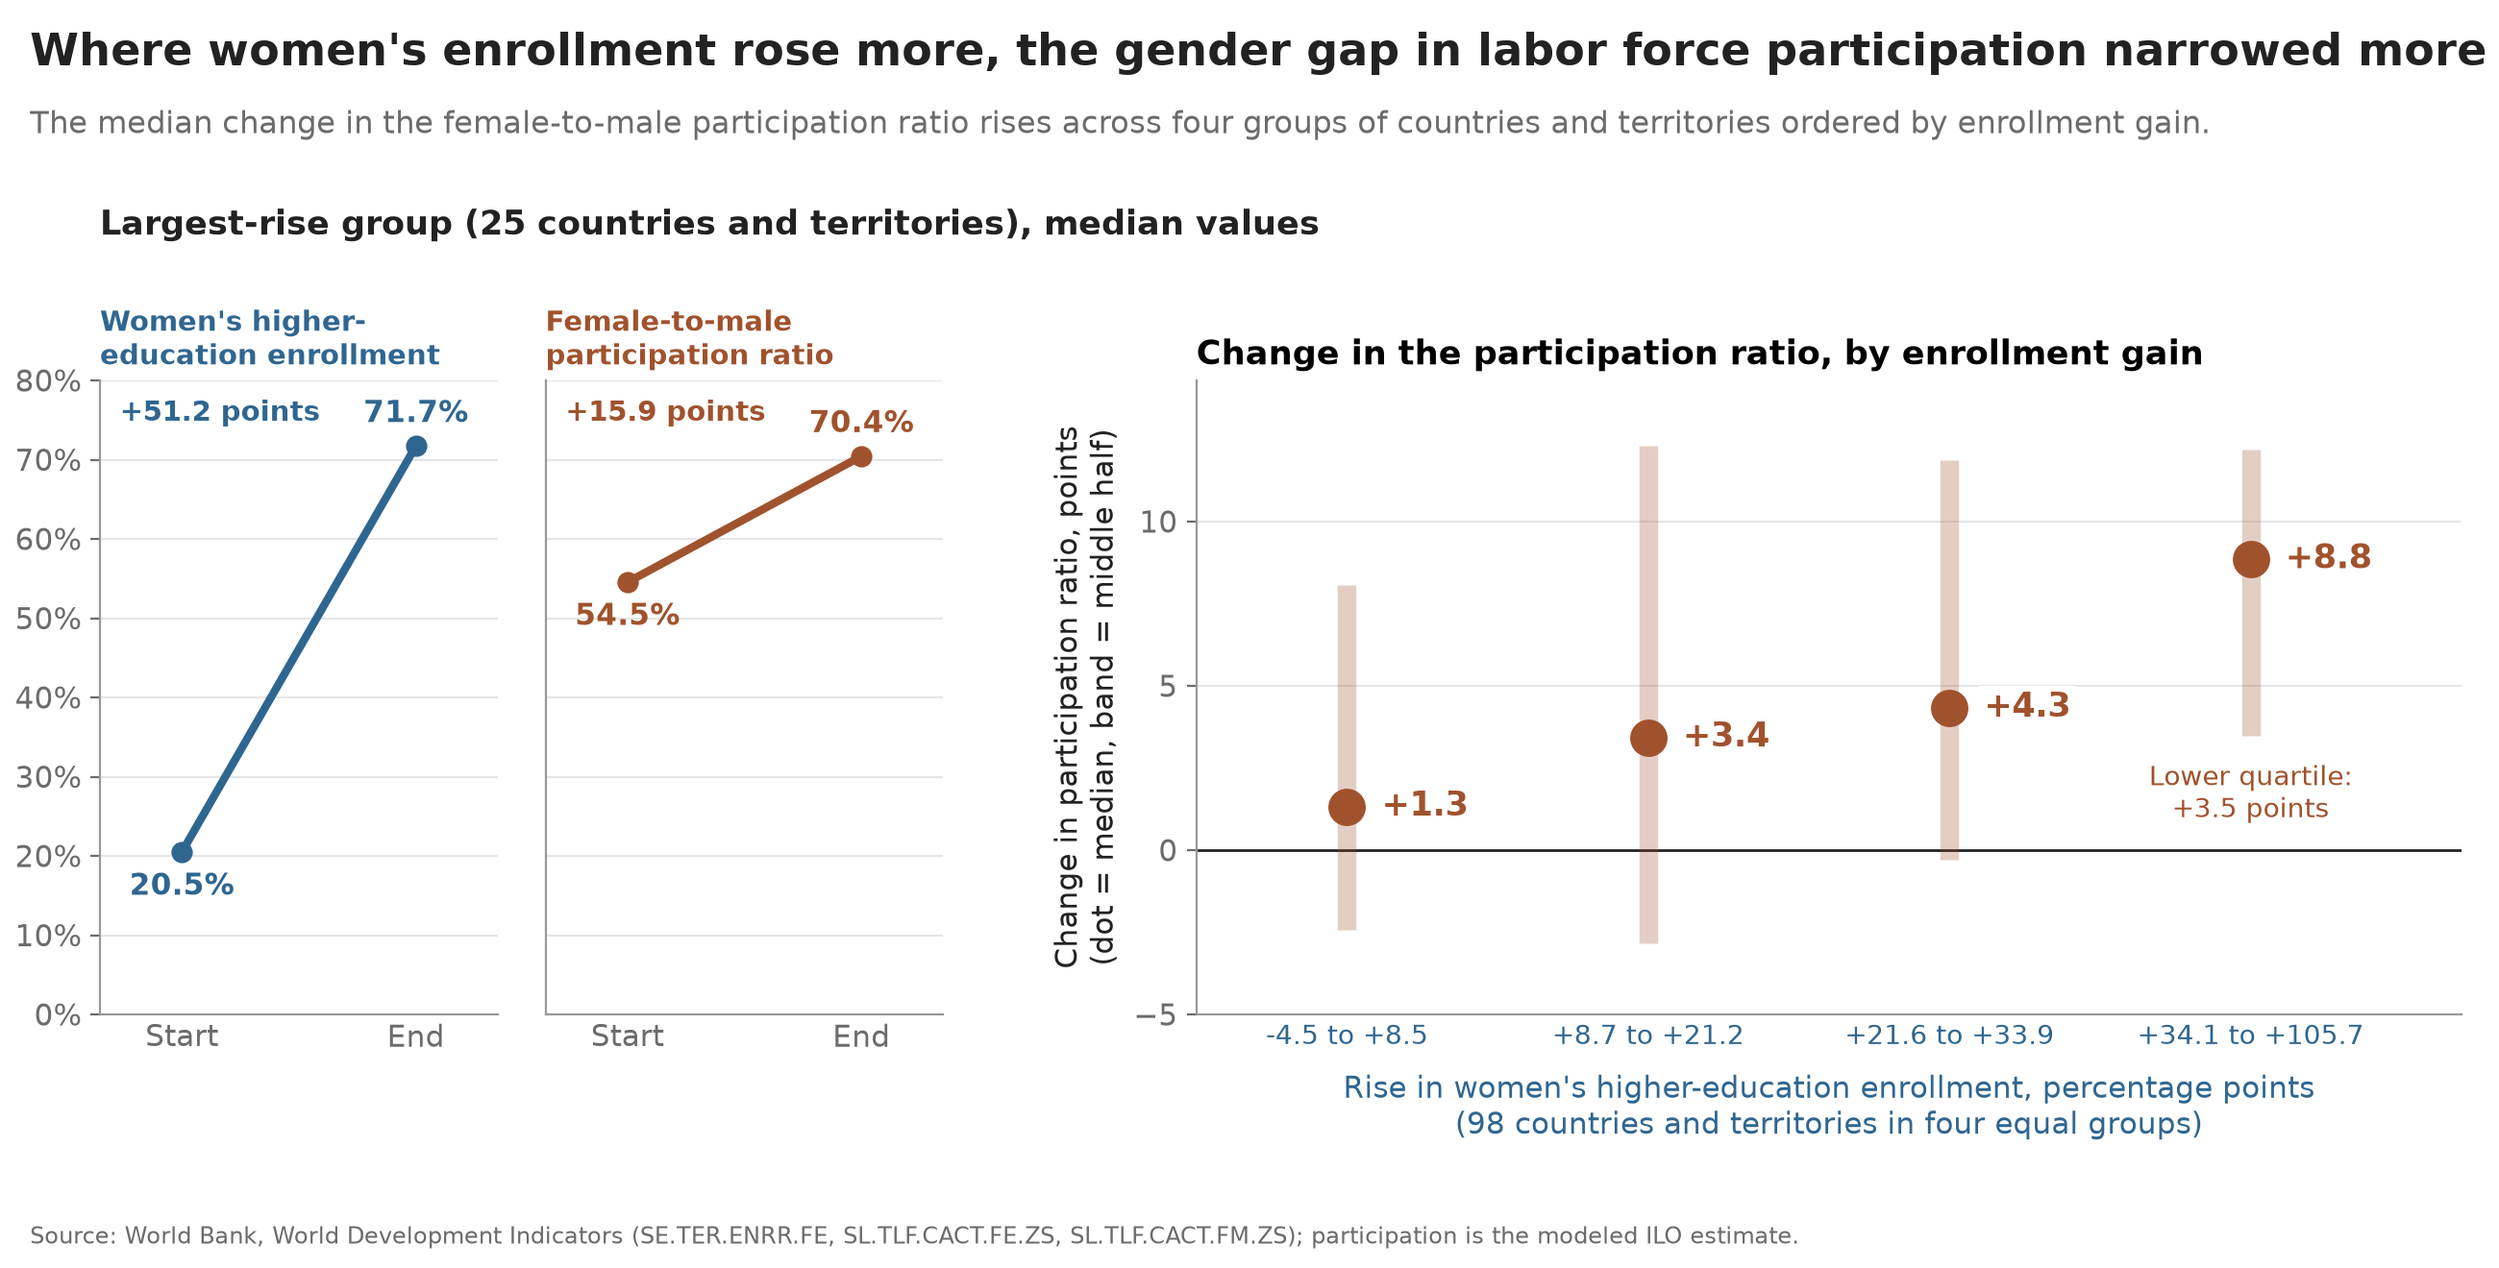
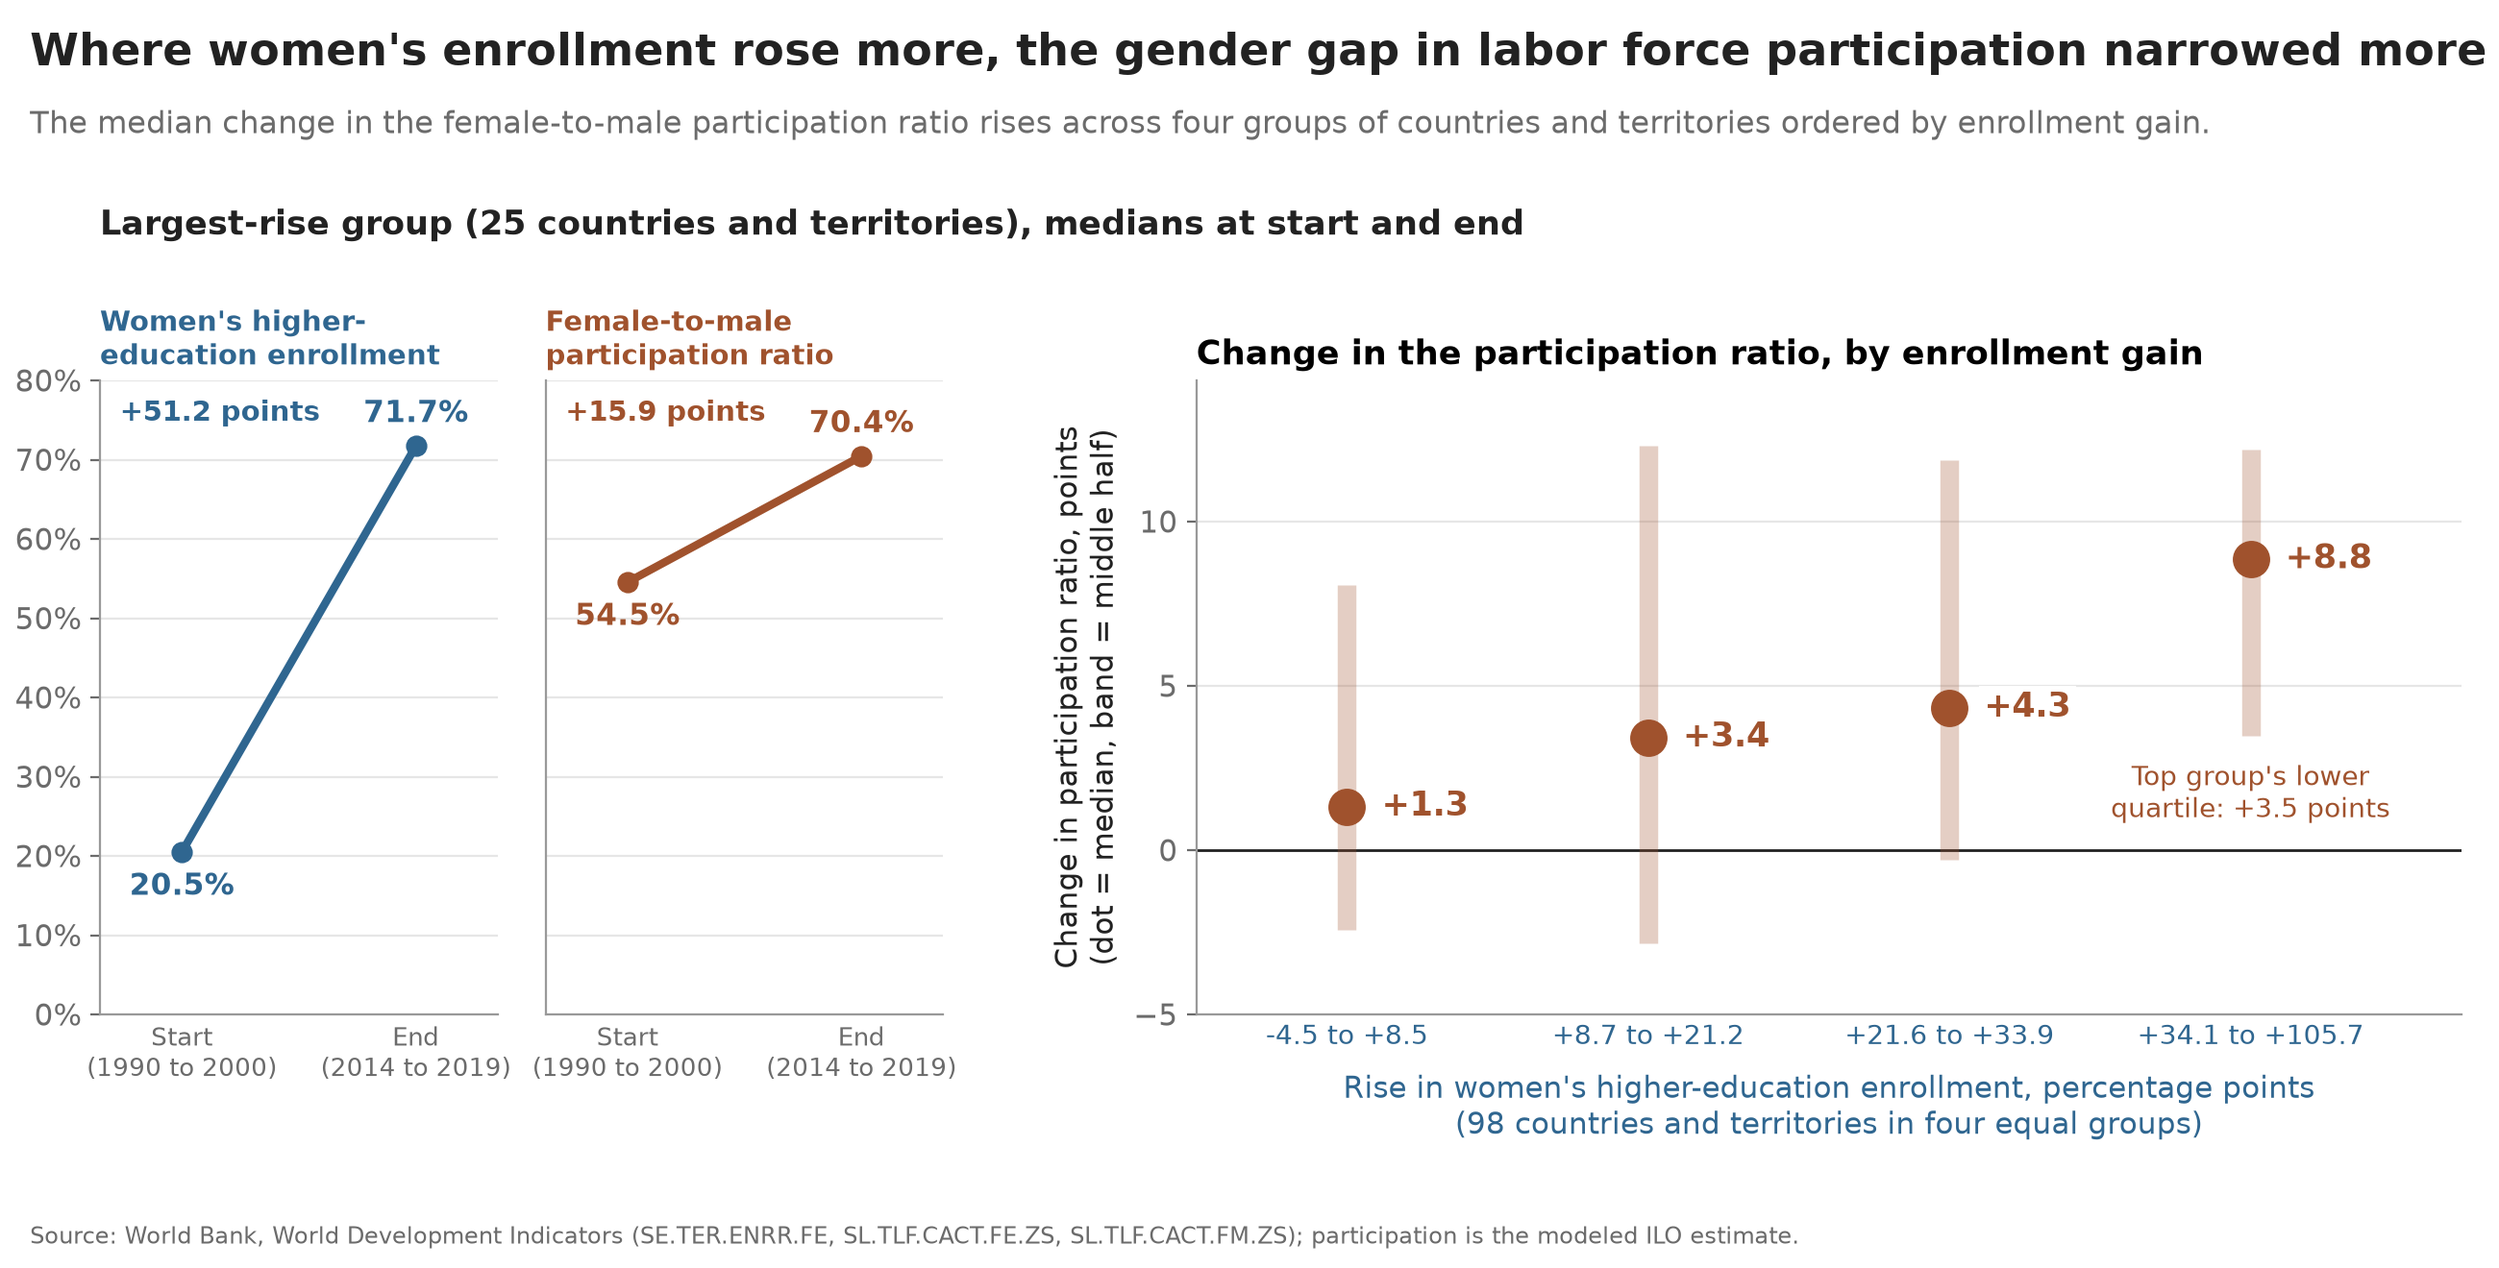
Project 2: red-team round 2 fixes (score consistency, chart year labels, wording corrections)

diff --git a/projects/project2-women-work/index.html b/projects/project2-women-work/index.html
@@ -198,7 +198,7 @@
                 We fetched the years 1990 to 2019 from the
                 <a href="https://datahelpdesk.worldbank.org/knowledgebase/articles/889392">World Bank Indicators API</a>
                 on 21 October 2026 (Pacific time) and cached them in a data/ folder, which is not part of the published
-                site. Running <a href="make_charts.py">make_charts.py</a> fetches the same indicators again. The
+                site. Running <a href="make_charts.py">make_charts.py</a> reuses that cache, and fetches the indicators again only when it is missing. The
                 indicators are female gross tertiary enrollment (SE.TER.ENRR.FE), female labor force participation,
                 ages 15 and over (SL.TLF.CACT.FE.ZS), and the ratio of the female to the male labor force
                 participation rate (SL.TLF.CACT.FM.ZS).
@@ -245,9 +245,9 @@
                         two measures have different denominators: gross tertiary enrollment is measured against the
                         university-age cohort (and can exceed 100%), whilst participation is measured against all women
                         aged 15 and over. Two different measures on one scale invite a comparison of levels, and the gap
-                        then looks like one series failing to follow the other. The separate panels in the opposing chart
-                        (+1.5) are the earnest counterpart of this choice, so the two scores are consistent. Alternative
-                        considered: two separate panels, which would be more honest but far less persuasive.
+                        then looks like one series failing to follow the other. The opposing chart draws its two measures in
+                        separate, separately titled panels and scores +1.5. Alternative considered: two separate panels,
+                        which we rejected because the gap between the two lines reads far less directly.
                     </li>
                     <li>
                         <strong>Women's own participation rate instead of the female-to-male ratio (score: -1.5).</strong> We measure work with the female participation rate and never show the ratio of the female to the
@@ -294,7 +294,7 @@
                             src="against_education_did_pay.png"
                             width="2600"
                             height="1320"
-                            alt="Left: two small slope panels on one 0 to 80% scale for the 25 countries and territories with the largest rise in women's enrollment; median enrollment rises from 20.5% to 71.7% and the median female-to-male participation ratio from 54.5% to 70.4%. Right: dot plot of 98 countries and territories split into four equal groups by the rise in women's enrollment (-4.5 to +8.5, +8.7 to +21.2, +21.6 to +33.9 and +34.1 to +105.7 points); the median change in the female-to-male participation ratio is +1.3, +3.4, +4.3 and +8.8 points, and bands show the middle half of each group. Callouts read: +51.2 points and +15.9 points on the left; lower quartile: +3.5 points on the right."
+                            alt="Left: two small slope panels on one 0 to 80% scale for the 25 countries and territories with the largest rise in women's enrollment; median enrollment rises from 20.5% to 71.7% and the median female-to-male participation ratio from 54.5% to 70.4%. Right: dot plot of 98 countries and territories split into four equal groups by the rise in women's enrollment (-4.5 to +8.5, +8.7 to +21.2, +21.6 to +33.9 and +34.1 to +105.7 points); the median change in the female-to-male participation ratio is +1.3, +3.4, +4.3 and +8.8 points, and bands show the middle half of each group. Start (1990 to 2000) and End (2014 to 2019) mark each axis. Callouts read: +51.2 points and +15.9 points on the left; top group's lower quartile: +3.5 points on the right."
                         />
                     </a>
                     <figcaption>
@@ -323,9 +323,10 @@
                     </li>
                     <li>
                         <strong>Two small panels on one 0 to 80% scale (score: +1.5).</strong> Enrollment and the participation ratio are different measures, so we draw them in separate,
-                        separately titled panels. Both share a 0 to 80% scale starting at zero, so the steeper education
-                        slope is shown at its true size relative to the work slope. We regard this as earnest, and it is
-                        the counterpart of the single shared axis in the supporting chart (-1). Alternative considered:
+                        separately titled panels. Both share a 0 to 80% scale starting at zero, so the two changes can be
+                        compared in size, whilst the separate titles make clear that the levels are not comparable. This is
+                        what distinguishes it from the single overlaid axis in the supporting chart (-1), so we regard it as
+                        earnest. Alternative considered:
                         two crossing lines on one plot, which we rejected because they invite a comparison of levels that
                         means nothing.
                     </li>
@@ -385,8 +386,9 @@
                     The supporting chart was the more straightforward to build, because the world figures alone make
                     the case: enrollment roughly tripled whilst participation fell. The opposing side was harder. The TA feedback observed that our checkpoint did not show the
                     enrollment trend or clearly oppose the proposition, and it asked that the supporting side use global rather
-                    than single-country data. Meeting both requests put the two charts on the same 98 countries and
-                    territories, which made an honest opposing case harder. The most
+                    than single-country data. Meeting both requests meant building both charts on the same 98
+                    countries and territories that report all three indicators, so the opposing side could no longer
+                    rely on a separately chosen region. The most
                     surprising finding was that the choice of work measure decides the conclusion. Women's own
                     participation rate fell worldwide, whereas the ratio of the female to the male rate rose, so each
                     side could pick the indicator that suited it without altering a single value.
@@ -405,7 +407,7 @@
                 <p>
                     Acceptable persuasion directs attention to something genuinely in the data. Emphasis, ordering and a
                     clear headline qualify. None of our deceptive decisions needed a truncated axis or a false number:
-                    every axis includes zero and every figure cites its source. The line is crossed when a choice
+                    every percentage axis starts at zero and every figure cites its source. The line is crossed when a choice
                     depends on the reader not knowing an alternative. A measure, threshold or aggregation chosen because
                     the obvious alternative weakens the conclusion is misleading even when every number is correct.
                     Median callouts that make modest gains read as stagnation, a best-case group shown first, and group

diff --git a/projects/project2-alt/index.html b/projects/project2-alt/index.html
@@ -263,13 +263,13 @@
                         +1.5).</strong> The six types are stacked in a single muted ramp with floods at the
                         base, and the axis starts at zero. The reader sees both the total and its composition.
                         Floods (44 per year in 1980-84, 200 in 2020-22) and storms account for most of the
-                        growth, whilst droughts and landslides are roughly flat. This adds information that
+                        growth, whilst droughts are roughly flat and landslides grew only from a low base. This adds information that
                         could weaken our case and hides none. Alternative considered: a single total line,
                         rejected because it would conceal that composition.
                     </li>
                     <li>
                         <strong>A fixed panel of consistent reporters (score: -1).</strong> The right panel
-                        repeats the period means for the 82 with at least one record in every period: 104 per
+                        repeats the period means for the 82 countries and territories with at least one record in every period: 104 per
                         year in 1980-84, 297 in 2020-22. These 82 hold about 80% of all records. The panel
                         answers the objection that the rise comes from countries that only started appearing in
                         EM-DAT later. It is still a selected group, and a country can report more events over
@@ -300,7 +300,7 @@
                             src="against_held_steady.png"
                             width="2600"
                             height="1320"
-                            alt="Left: line chart of climate-related disasters recorded per year from 2000 to 2022 on an axis from 0 to 500, moving between 287 and 407 with no clear direction, labelled 370 in 2000 and 347 in 2022, with a dashed fitted line labelled trend -0.6 per year. Right: bar chart of 215 countries and territories grouped by the change in their recorded disasters between the 2000s and the 2010s: 21 with 10 or more fewer, 29 with 5 to 9 fewer, 57 with 1 to 4 fewer, 28 unchanged, 56 with 1 to 4 more, 19 with 5 to 9 more and 5 with 10 or more more. Labels read 107 recorded fewer, 80 recorded more, 28 unchanged."
+                            alt="Left: line chart of climate-related disasters recorded per year from 2000 to 2022 on an axis from 0 to 500, moving between 287 and 407 with no clear direction, labelled 370 in 2000 and 347 in 2022, with a dashed fitted line labelled trend -0.6 per year. Right: bar chart of 215 countries and territories grouped by the change in their recorded disasters between the 2000s and the 2010s: 21 with 10 or more fewer, 29 with 5 to 9 fewer, 57 with 1 to 4 fewer, 28 unchanged, 56 with 1 to 4 more, 19 with 5 to 9 more and 5 with 10 or more more. Labels read 107 recorded fewer and 80 recorded more."
                         />
                     </a>
                     <figcaption>
@@ -319,10 +319,10 @@
                         <strong>Both panels start in 2000, not 1980 (score: -1.5).</strong> The table begins in
                         1980, when 104 disasters were recorded, and by 2000 the count was 370. The left panel
                         opens at the top of that rise. The right panel compares the 2000s with the 2010s and
-                        leaves out 2020 to 2022, the three years with the highest recent mean (370 per year). A
+                        leaves out 2020 to 2022, the three years with the highest period mean in the table (370 per year). A
                         reader sees twenty-three years of fluctuation and no sign of the twenty years of growth
                         before them. EM-DAT's coverage is more complete after 2000, which is a real argument,
-                        but the chart does not make it. This is the most deceptive choice on this side.
+                        but the chart does not make it. This is, with equal weighting, the most deceptive choice on this side.
                         Alternative considered: starting in 1980, rejected because the early rise would dominate
                         the chart and undercut the title.
                     </li>
@@ -384,8 +384,7 @@
                     </a>
                     <figcaption>
                         Our ten design decisions on the assignment's -2 to +2 scale. Each side has one clearly earnest
-                        decision, and on both sides the most deceptive choice concerns what is counted rather than how it
-                        is drawn.
+                        decision, and on both sides the most deceptive choices concern what is counted rather than how it is drawn.
                     </figcaption>
                 </figure>
 
@@ -433,7 +432,7 @@
                         />
                     </a>
                     <figcaption>
-                        Context for the reflection, not part of either persuasive visualization: annual counts
+                        Reference figure for the reflection, not part of either persuasive visualization: annual counts
                         from 1980 to 2022 with the opposing chart's window shaded (left), and the number of
                         countries and territories with any record in each year (right). The supporting chart
                         averages this series into periods and the opposing chart shows only the shaded part of

diff --git a/projects/project2-women-work/make_charts.py b/projects/project2-women-work/make_charts.py
@@ -249,12 +249,12 @@ def chart_against(df: pd.DataFrame, ch: pd.DataFrame) -> dict:
         a.set_title(name, fontsize=10.5, color=color)
         a.set_xlim(-0.35, 1.35)
         a.set_xticks([0, 1])
-        a.set_xticklabels(["Start", "End"])
+        a.set_xticklabels(["Start\n(1990 to 2000)", "End\n(2014 to 2019)"], fontsize=9.5)
         a.tick_params(axis="x", length=0)
         a.grid(axis="y", color=GRID)
     pct_axis(axl[0], 80)
     axl[1].tick_params(axis="y", labelleft=False, length=0)
-    fig.text(0.04, 0.815, f"Largest-rise group ({len(top)} countries and territories), median values",
+    fig.text(0.04, 0.815, f"Largest-rise group ({len(top)} countries and territories), medians at start and end",
              ha="left", fontsize=12.5, fontweight="bold", color=INK)
 
     # Right: quartiles of enrollment gain; dot = median change in the ratio, line = middle half.
@@ -270,7 +270,7 @@ def chart_against(df: pd.DataFrame, ch: pd.DataFrame) -> dict:
                      va="center", fontsize=12.5, fontweight="bold", color=WORK,
                      bbox=dict(boxstyle="square,pad=0.15", fc="white", ec="none"))
     last = grp.iloc[-1]
-    ax2.text(len(grp) - 1, last.p25 - 0.8, f"Lower quartile:\n{last.p25:+.1f} points", ha="center",
+    ax2.text(len(grp) - 1, last.p25 - 0.8, f"Top group's lower\nquartile: {last.p25:+.1f} points", ha="center",
              va="top", fontsize=10, color=WORK)
     ax2.set_xticks(x)
     ax2.set_xticklabels([f"{r.lo:+.1f} to {r.hi:+.1f}" for _, r in grp.iterrows()], color=EDU, fontsize=10)

diff --git a/projects/project2-alt/make_charts.py b/projects/project2-alt/make_charts.py
@@ -279,7 +279,7 @@ def chart_against(s: dict) -> None:
     xs = np.arange(len(cats))
     ax2.bar(xs, counts.values, color=colours, width=0.72)
     for i, v in enumerate(counts.values):
-        label, colour = (f"{int(v)}\nunchanged", MUTED) if i == 3 else (str(int(v)), INK)
+        label, colour = (str(int(v)), MUTED) if i == 3 else (str(int(v)), INK)
         ax2.text(i, v + 1.2, label, ha="center", va="bottom", fontsize=9.5, color=colour,
                  bbox=dict(fc="white", ec="none", pad=1.5))
     ax2.set_xticks(xs, cats, fontsize=8.5)
